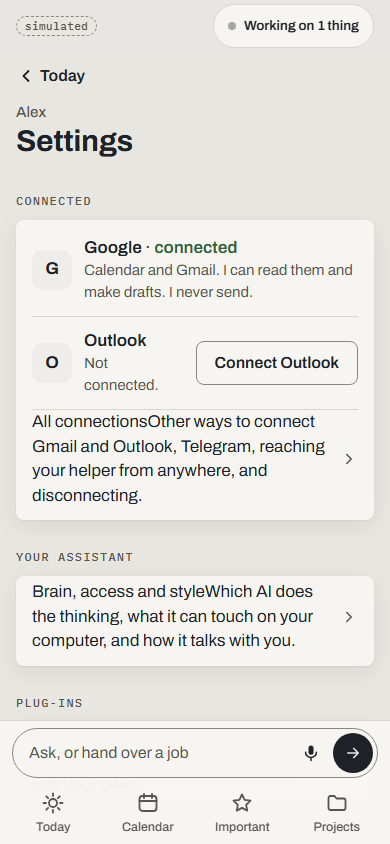
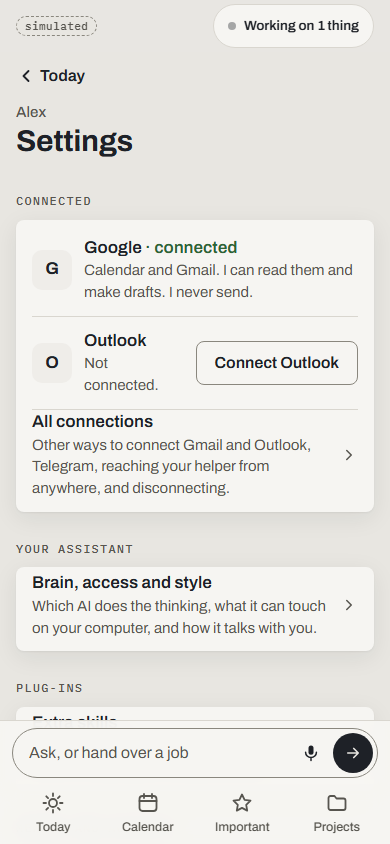
Release prep 0.10.0: version, AWM ^0.20.1, export requireApproval, Settings entry rows laid out, screenshots retaken
- package.json 0.10.0; agent-working-memory ^0.20.1 (the vendored and tested AWM; ^0.10.0 would install an old one from npm)
- requireApproval is exported from the package root, as docs/embedding-mwa.md describes
- Settings entry rows (All connections, Brain access and style, Extra skills...) show the title above its description
- two stale comments corrected (no password = this machine only; device tokens exist)

Claude-Session: https://claude.ai/code/session_01S1N4XjHgHLNPXj8BkNqAen

diff --git a/src/serve.ts b/src/serve.ts
@@ -151,8 +151,8 @@ export function sameOriginOk(req: IncomingMessage): boolean {
 
 // --- Access gate. When MWA_ACCESS_PASSWORD is set (recommended for any networked /
 // NAS deployment), the UI + API are locked behind a single shared password until the
-// browser holds a valid session cookie. Unset (the localhost default) = no gate, so the
-// existing one-machine flow is unchanged. Cookie-based on purpose: EventSource (the SSE
+// browser holds a valid session cookie. Unset (the localhost default), only this machine is
+// let in (see the per-route caller checks below); inside Docker nobody counts as this machine. Cookie-based on purpose: EventSource (the SSE
 // chat) can't send custom headers but does send same-origin cookies automatically.
 const ACCESS_PW = process.env.MWA_ACCESS_PASSWORD || '';
 // BL-71: a session survives a restart or a deploy (signed with a key from the password and a salt beside the data).

diff --git a/src/api/router.ts b/src/api/router.ts
@@ -4,7 +4,7 @@
  * line in serve.ts and testable on its own server.
  *
  * Every route declares its scope. In one place, for every route:
- *   - access: the caller must be signed in (deps.authed — the password session today; device tokens come next);
+ *   - access: the caller must be signed in (deps.authed — a password session or a paired device token);
  *   - same-origin: a cookie-authenticated write from another site is refused (CSRF), as sameOriginOk does for /api;
  *   - idempotency: a write must carry an Idempotency-Key; a retry with the same key gets the first answer back;
  *   - client version: a client older than MIN_CLIENT gets 426 and must reload;

diff --git a/src/index.ts b/src/index.ts
@@ -10,6 +10,7 @@ export { RoutedProvider, classifyIntent, type Tier } from './model-router.js';
 export { ToolRegistry, type RegisteredTool, type ToolContext } from './tools/registry.js';
 export { BUILTIN_TOOLS, builtinTools } from './tools/builtins.js';
 export { buildRegistry } from './tools/build.js';
+export { requireApproval } from './tools/approval.js';
 export { loadMcpServers, type McpServerSpec, type McpHandle } from './tools/mcp.js';
 export { processInbox, watchInbox, mailboxDirs, type MailboxDirs } from './mailbox.js';
 export { runTelegram, handleInstruction } from './connectors/telegram.js';

diff --git a/web/src/v2/screens/settings/settings.css b/web/src/v2/screens/settings/settings.css
@@ -103,6 +103,8 @@ select.setinput { appearance: auto; }
 .plugtrust input { width: 20px; height: 20px; flex: none; }
 .plugentry { width: 100%; text-align: left; background: none; border: 0; color: inherit; font: inherit; padding: 0; display: flex; align-items: center; gap: 12px; min-height: 56px; }
 .plugentry .grow { flex: 1; min-width: 0; }
+.plugentry .rowtitle { display: block; font-weight: 600; overflow-wrap: anywhere; }
+.plugentry .s { display: block; color: var(--dim); font-size: 15px; overflow-wrap: anywhere; }
 .plugclear { display: flex; }
 
 /* S2: Settings › Your assistant */

diff --git a/docs/embedding-mwa.md b/docs/embedding-mwa.md
@@ -38,7 +38,7 @@ memory.close();
 | `MwaMemory` | the AWM substrate (in-process). Pass a `workspace` for cross-agent shared recall. `NullMemory` disables it. |
 | `getProvider(role)` + `RoutedProvider` | provider resolution from config + the cheap→strong tier router (escalates on struggle). |
 | `buildRegistry(cfg)` | the tool registry: built-ins + MCP servers + the runtime tool-management tools. Register your own `RegisteredTool`s too. |
-| `requireApproval(tool)` | wrap a write/irreversible tool so it previews then runs only after `confirm_action` (chat), `POST /api/v1/approvals/{id}/approve` (the new app or a paired phone) or `/api/approvals/confirm` (the classic app). Not re-exported from the package root: import it from `memory-working-agent/dist/tools/approval.js`. |
+| `requireApproval(tool)` | wrap a write/irreversible tool so it previews then runs only after `confirm_action` (chat), `POST /api/v1/approvals/{id}/approve` (the new app or a paired phone) or `/api/approvals/confirm` (the classic app). |
 
 ## Plugging in a domain (the "new agent")
 
